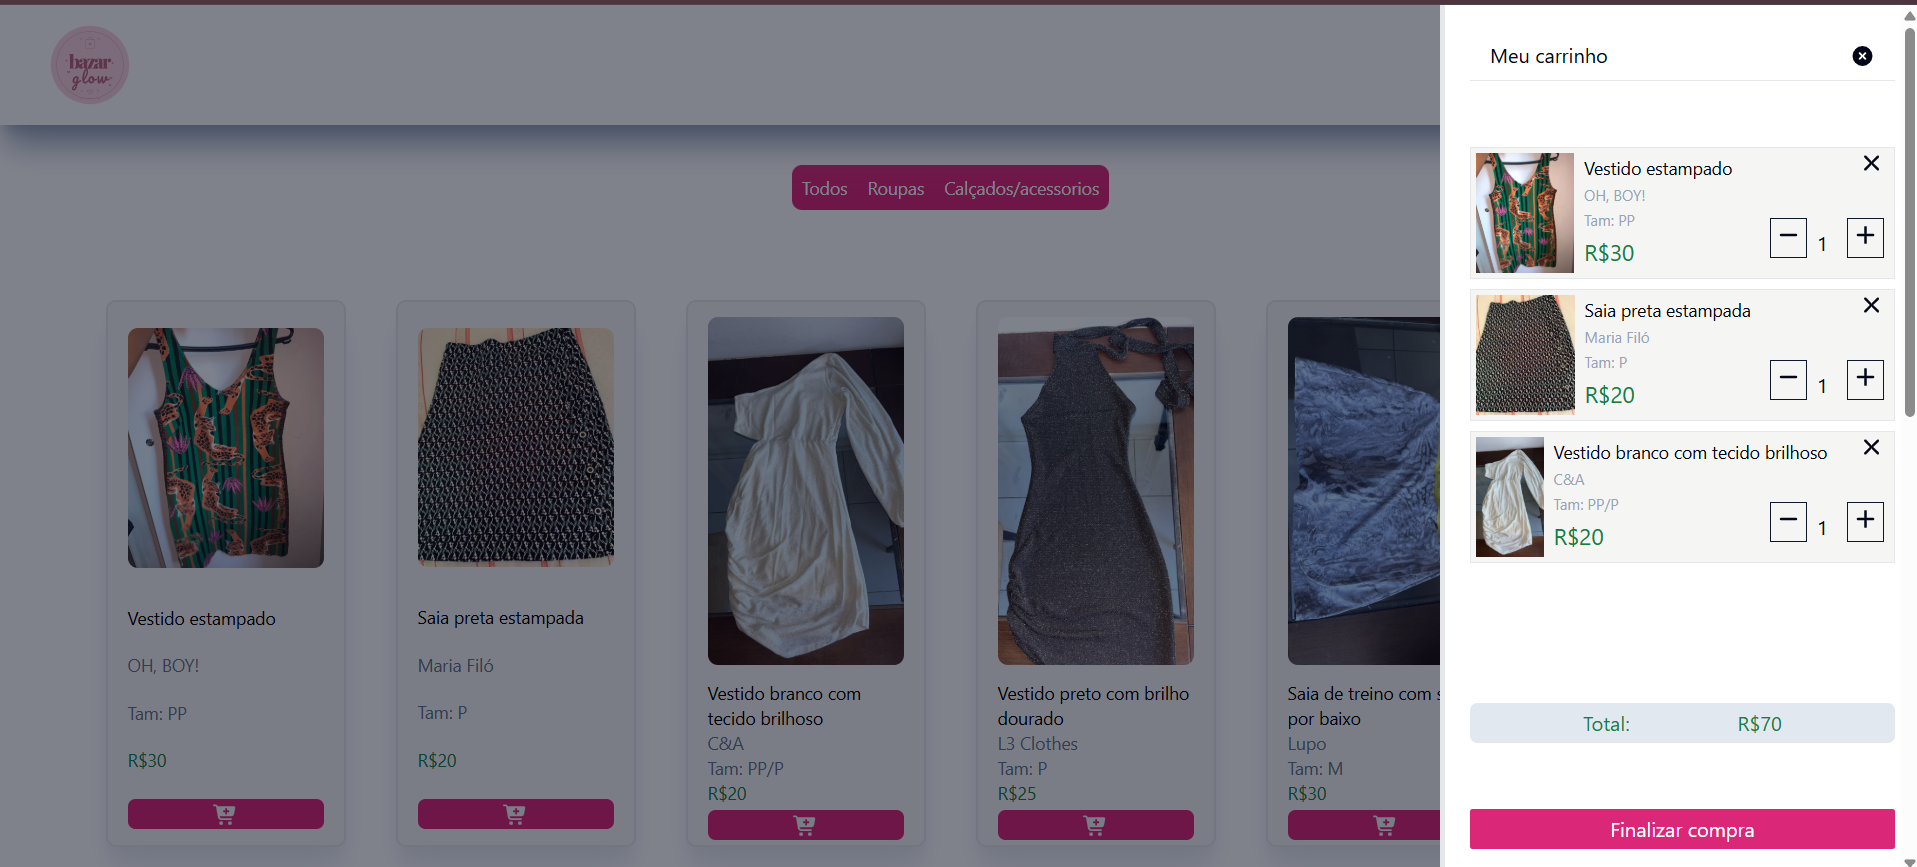
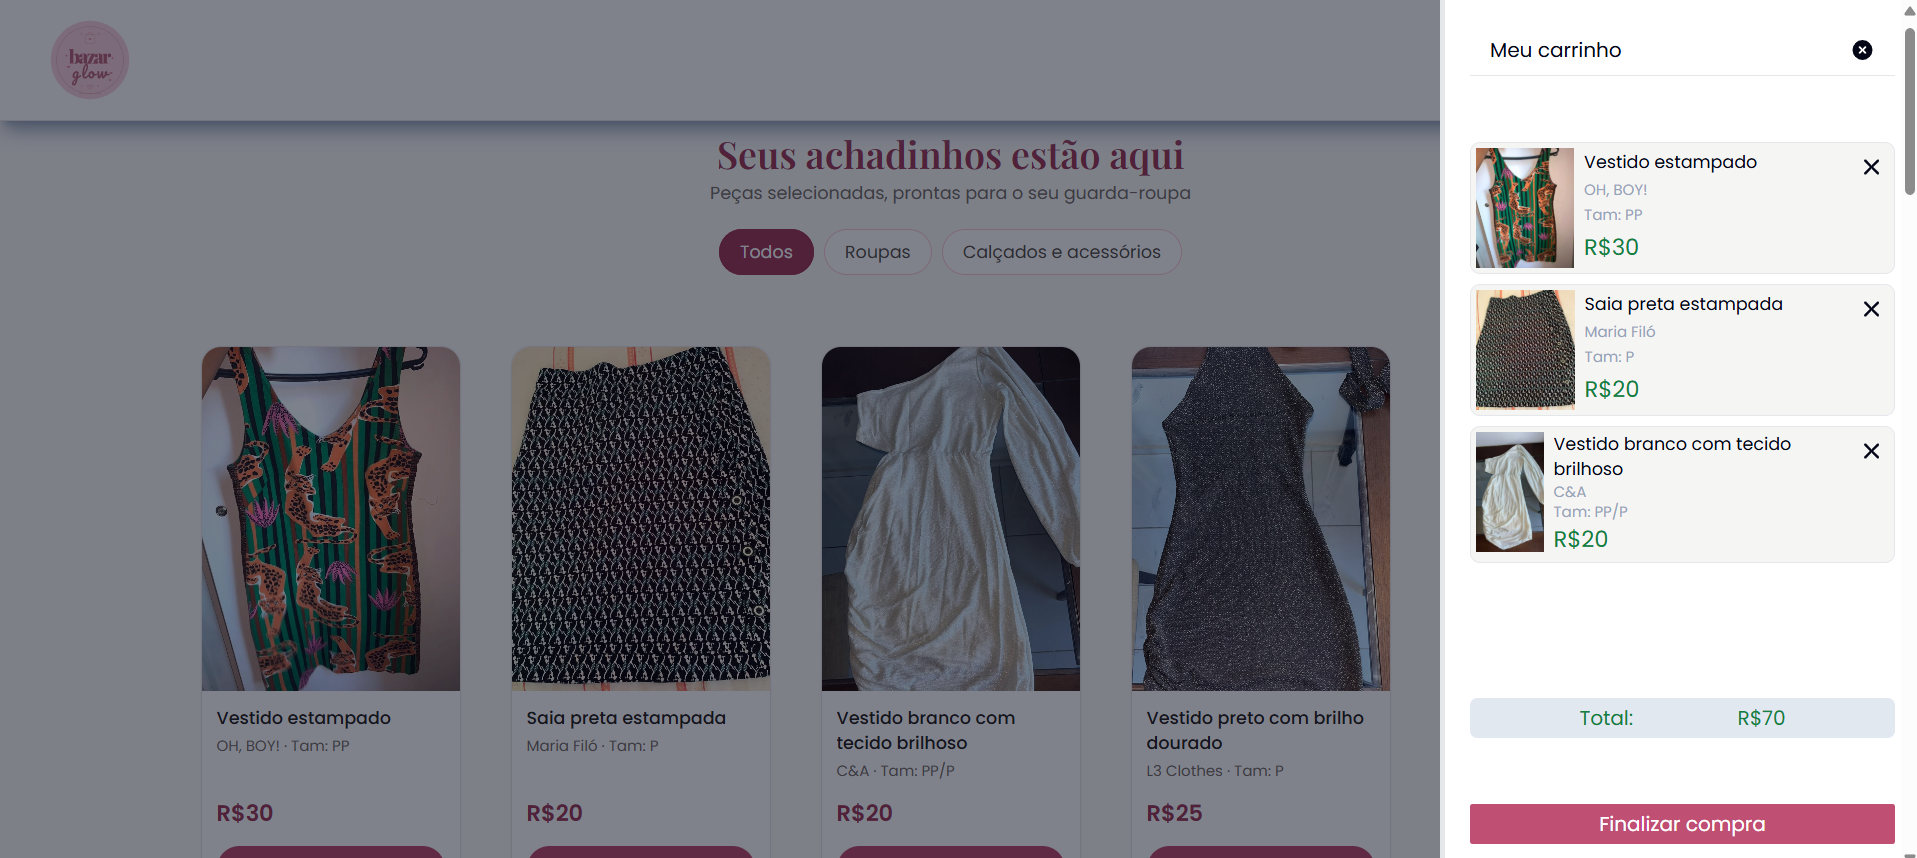
Resolve conflito do filtro

diff --git a/src/Pages/HomePage/ProductFilter.jsx b/src/Pages/HomePage/ProductFilter.jsx
@@ -18,7 +18,7 @@ const ProductFilter = ({ setSearchParams, current }) => {
     }
 
     return (
-        <section className="flex flex-wrap justify-center gap-2 px-4 py-6">
+        <section className="flex flex-nowrap justify-center gap-1.5 px-2 py-6 md:gap-2 md:px-4">
             {options.map((o) => (
                 <div key={o.id}>
                     <input
@@ -31,12 +31,13 @@ const ProductFilter = ({ setSearchParams, current }) => {
                     />
                     <label
                         htmlFor={o.id}
-                        className={`cursor-pointer rounded-full border px-4 py-2 text-sm transition ${
+                        className={`cursor-pointer whitespace-nowrap rounded-full border px-3 py-2 text-xs transition md:px-4 md:text-sm ${
                             selected === o.id
                                 ? 'border-brand-700 bg-brand-700 text-white'
                                 : 'border-brand-200 bg-white text-stone-600 hover:border-brand-500'
                         }`}
                     >
+                    
                         {o.label}
                     </label>
                 </div>

diff --git a/src/Pages/HomePage/Home.jsx b/src/Pages/HomePage/Home.jsx
@@ -5,8 +5,12 @@ const Home = () => {
     return (
     <>
     <div className="px-4 pt-8 text-center">
-        <h1 className="font-display text-3xl text-brand-700">Seus achadinhos estão aqui</h1>
-        <p className="mt-1 text-sm text-stone-500">Peças selecionadas, prontas para o seu guarda-roupa</p>
+        <h1 className="whitespace-nowrap font-display text-[clamp(1.25rem,6.5vw,1.875rem)] text-brand-700">
+            Seus achadinhos estão aqui
+        </h1>
+        <p className="mt-1 whitespace-nowrap text-xs text-stone-500 md:text-sm">
+            Peças selecionadas, prontas para o seu guarda-roupa
+        </p>
     </div>
     
     <CartOverlay />
